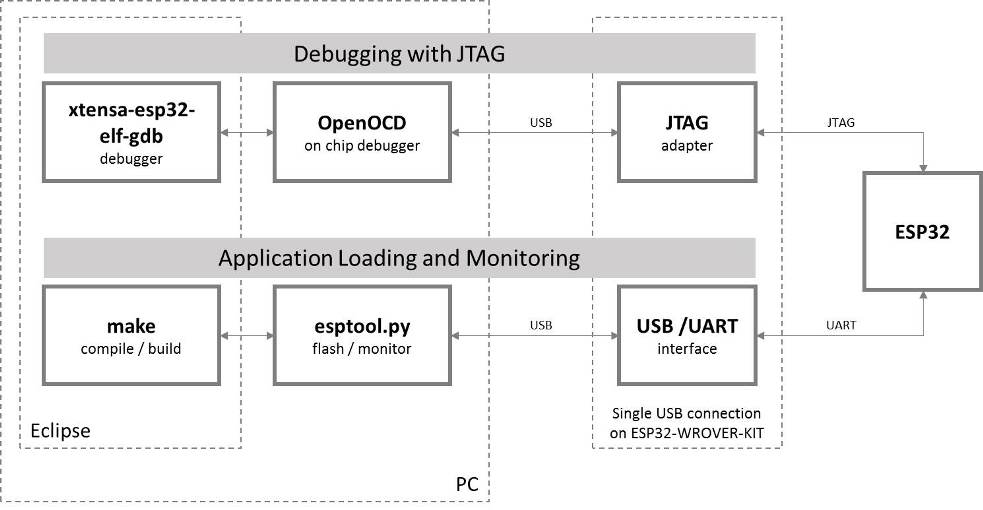
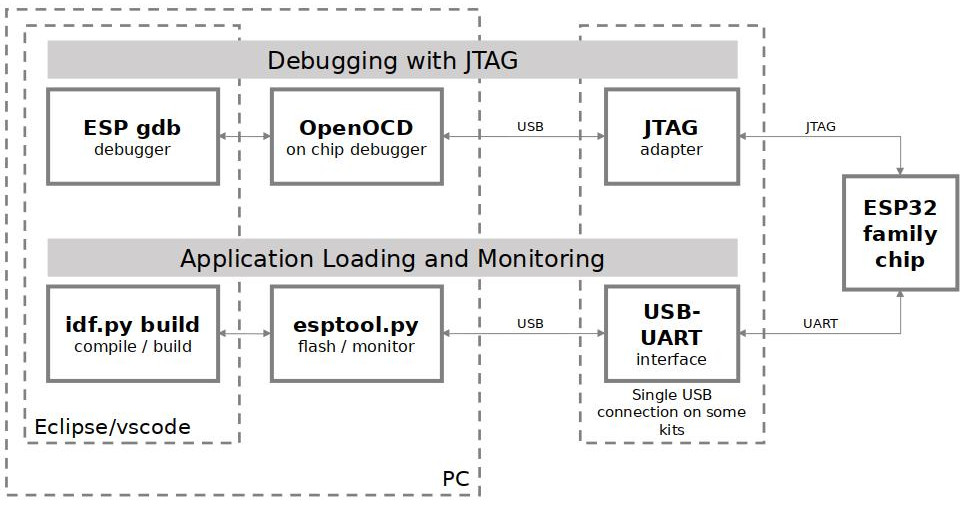
docs: Update JTAG debugging guides for ESP32-C3

diff --git a/docs/conf_common.py b/docs/conf_common.py
@@ -165,6 +165,10 @@ USB_DOCS = ['api-reference/peripherals/usb.rst',
             'api-guides/usb-console.rst',
             'api-guides/dfu.rst']
 
+FTDI_JTAG_DOCS = ['api-guides/jtag-debugging/configure-ft2232h-jtag.rst']
+
+BUILTIN_JTAG_DOCS = ['api-guides/jtag-debugging/configure-builtin-jtag.rst']
+
 ULP_DOCS = ['api-guides/ulp.rst', 'api-guides/ulp_macros.rst']
 
 RISCV_COPROC_DOCS = ['api-guides/ulp-risc-v.rst',]
@@ -182,7 +186,7 @@ ESP32_DOCS = ['api-guides/ulp_instruction_set.rst',
               'security/secure-boot-v1.rst',
               'api-reference/peripherals/secure_element.rst',
               'api-reference/peripherals/dac.rst',
-              'hw-reference/esp32/**'] + LEGACY_DOCS
+              'hw-reference/esp32/**'] + LEGACY_DOCS + FTDI_JTAG_DOCS
 
 ESP32S2_DOCS = ['hw-reference/esp32s2/**',
                 'api-guides/ulps2_instruction_set.rst',
@@ -193,9 +197,9 @@ ESP32S2_DOCS = ['hw-reference/esp32s2/**',
                 'api-reference/peripherals/temp_sensor.rst',
                 'api-reference/system/async_memcpy.rst',
                 'api-reference/peripherals/touch_element.rst',
-                'api-reference/peripherals/dac.rst']
+                'api-reference/peripherals/dac.rst'] + FTDI_JTAG_DOCS
 
-ESP32C3_DOCS = ['hw-reference/esp32c3/**']
+ESP32C3_DOCS = ['hw-reference/esp32c3/**'] + BUILTIN_JTAG_DOCS
 
 # format: {tag needed to include: documents to included}, tags are parsed from sdkconfig and peripheral_caps.h headers
 conditional_include_dict = {'SOC_BT_SUPPORTED':BT_DOCS,

diff --git a/docs/en/api-guides/jtag-debugging/index.rst b/docs/en/api-guides/jtag-debugging/index.rst
@@ -67,7 +67,17 @@ Under "Application Loading and Monitoring" there is another software and hardwar
 
 Debugging using JTAG and application loading / monitoring is integrated under the `Eclipse <https://www.eclipse.org/>`_ environment, to provide quick and easy transition from writing, compiling and loading the code to debugging, back to writing the code, and so on. All the software is available for Windows, Linux and MacOS platforms.
 
-If the |devkit-name-with-link| is used, then connection from PC to {IDF_TARGET_NAME} is done effectively with a single USB cable. This is made possible by the FT2232H chip, which provides two USB channels, one for JTAG and the one for UART connection.
+.. only:: not esp32c3
+
+    If the |devkit-name-with-link| is used, then connection from PC to {IDF_TARGET_NAME} is done effectively with a single USB cable. This is made possible by the FT2232H chip, which provides two USB channels, one for JTAG and the one for UART connection.
+
+.. only:: esp32c3
+
+    The connection from PC to {IDF_TARGET_NAME} is done effectively with a single USB cable. This is made possible by the {IDF_TARGET_NAME} chip itself, which provides two USB channels, one for JTAG and one for the USB terminal connection. The USB cable should be connected the D+/D- USB pins of {IDF_TARGET_NAME} and not to the serial RxD/TxD throught an USB-to-UART chip. The proper connection is explained later in subsection :ref:`jtag-debugging-configuring-target`.
+
+    .. note::
+
+        Debugging through the USB interface implemented in {IDF_TARGET_NAME} requires to have a chip with revision 3 or newer. Please use other debugging options (e.g. with ESP-Prog) for chip revision 1 and 2. The easiest way to determine the chip revision is to look for the `Chip is ESP32-C3 (revision 3)` message near the end of a successful chip flashing done by `idf.py flash`.
 
 Depending on user preferences, both `debugger` and `idf.py build` can be operated directly from terminal/command line, instead from Eclipse.
 
@@ -77,7 +87,13 @@ Depending on user preferences, both `debugger` and `idf.py build` can be operate
 Selecting JTAG Adapter
 ----------------------
 
-The quickest and most convenient way to start with JTAG debugging is by using |devkit-name-with-link|. Each version of this development board has JTAG interface already build in. No need for an external JTAG adapter and extra wiring / cable to connect JTAG to {IDF_TARGET_NAME}. |devkit-name| is using FT2232H JTAG interface operating at 20 MHz clock speed, which is difficult to achieve with an external adapter.
+.. only:: not esp32c3
+
+    The quickest and most convenient way to start with JTAG debugging is by using |devkit-name-with-link|. Each version of this development board has JTAG interface already built in. No need for an external JTAG adapter and extra wiring / cable to connect JTAG to {IDF_TARGET_NAME}. |devkit-name| is using FT2232H JTAG interface operating at 20 MHz clock speed, which is difficult to achieve with an external adapter.
+
+.. only:: esp32c3
+
+    The quickest and most convenient way to start with JTAG debugging is through an USB cable connected to the D+/D- USB pins of {IDF_TARGET_NAME}. No need for an external JTAG adapter and extra wiring / cable to connect JTAG to {IDF_TARGET_NAME}.
 
 If you decide to use separate JTAG adapter, look for one that is compatible with both the voltage levels on the {IDF_TARGET_NAME} as well as with the OpenOCD software. The JTAG port on the {IDF_TARGET_NAME} is an industry-standard JTAG port which lacks (and does not need) the TRST pin. The JTAG I/O pins all are powered from the VDD_3P3_RTC pin (which normally would be powered by a 3.3 V rail) so the JTAG adapter needs to be able to work with JTAG pins in that voltage range.
 
@@ -85,6 +101,7 @@ On the software side, OpenOCD supports a fair amount of JTAG adapters. See http:
 
 The minimal signalling to get a working JTAG connection are TDI, TDO, TCK, TMS and GND. Some JTAG debuggers also need a connection from the {IDF_TARGET_NAME} power line to a line called e.g. Vtar to set the working voltage. SRST can optionally be connected to the CH_PD of the {IDF_TARGET_NAME}, although for now, support in OpenOCD for that line is pretty minimal.
 
+`ESP-Prog <https://docs.espressif.com/projects/espressif-esp-iot-solution/en/latest/hw-reference/ESP-Prog_guide.html>`_ is an example for using an external board for debugging by connecting it to the JTAG pins of {IDF_TARGET_NAME}.
 
 .. _jtag-debugging-setup-openocd:
 
@@ -134,7 +151,9 @@ This step depends on JTAG and {IDF_TARGET_NAME} board you are using - see the tw
 .. toctree::
     :maxdepth: 1
 
-    configure-ft2232h-jtag
+    :esp32: configure-ft2232h-jtag
+    :esp32s2: configure-ft2232h-jtag
+    :esp32c3: configure-builtin-jtag
     configure-other-jtag
 
 
@@ -156,6 +175,11 @@ Open a terminal and set it up for using the ESP-IDF as described in the :ref:`se
 .. note::
 
     The files provided after ``-f`` above are specific for |run-openocd-device-name|. You may need to provide different files depending on used hardware. For guidance see :ref:`jtag-debugging-tip-openocd-configure-target`.
+
+    .. only:: esp32c3
+
+    For example, ``board/esp32c3-ftdi.cfg`` can be used for a custom board with an FT2232H or FT232H chip used for JTAG connection,
+    or with ESP-Prog.
 
 .. highlight:: none
 

diff --git a/docs/en/api-guides/jtag-debugging/configure-builtin-jtag.rst b/docs/en/api-guides/jtag-debugging/configure-builtin-jtag.rst
@@ -1,0 +1,36 @@
+.. include:: {IDF_TARGET_PATH_NAME}.inc
+   :start-after: devkit-defs
+   :end-before: ---
+
+
+Configure {IDF_TARGET_NAME} built-in JTAG Interface
+===================================================
+
+{IDF_TARGET_NAME} has a built-in JTAG circuitry and can be debugged without any additional chip. Only an USB cable
+connected to the D+/D- pins is necessary. The necessary connections are shown in the following section.
+
+Configure Hardware
+^^^^^^^^^^^^^^^^^^
+
+.. list-table:: ESP32-C3 pins and USB signals
+    :widths: 25 75
+    :header-rows: 1
+
+    * - ESP32-C3 Pin
+      - USB Signal
+    * - GPIO18
+      - D-
+    * - GPIO19
+      - D+
+    * - 5V
+      - V_BUS
+    * - GND
+      - Ground
+
+Please verify that the {IDF_TARGET_NAME} pins used for USB communication are not connected to some other HW that may disturb the JTAG operation.
+
+Configure USB Drivers
+^^^^^^^^^^^^^^^^^^^^^
+
+JTAG communication should work out-of-box on Linux and macOS. Windows users might get `LIBUSB_ERROR_NOT_FOUND` errors.
+This is a known issue and will be addressed soon.

diff --git a/docs/zh_CN/api-guides/jtag-debugging/index.rst b/docs/zh_CN/api-guides/jtag-debugging/index.rst
@@ -133,7 +133,9 @@ JTAG 正常工作至少需要连接的信号线有：TDI，TDO，TCK，TMS 和 G
 .. toctree::
     :maxdepth: 1
 
-    configure-ft2232h-jtag
+    :esp32: configure-ft2232h-jtag
+    :esp32s2: configure-ft2232h-jtag
+    :esp32c3: configure-builtin-jtag
     configure-other-jtag
 
 

diff --git a/docs/zh_CN/api-guides/jtag-debugging/configure-builtin-jtag.rst b/docs/zh_CN/api-guides/jtag-debugging/configure-builtin-jtag.rst
@@ -1,0 +1,1 @@
+.. include:: ../../../en/api-guides/jtag-debugging/configure-builtin-jtag.rst
